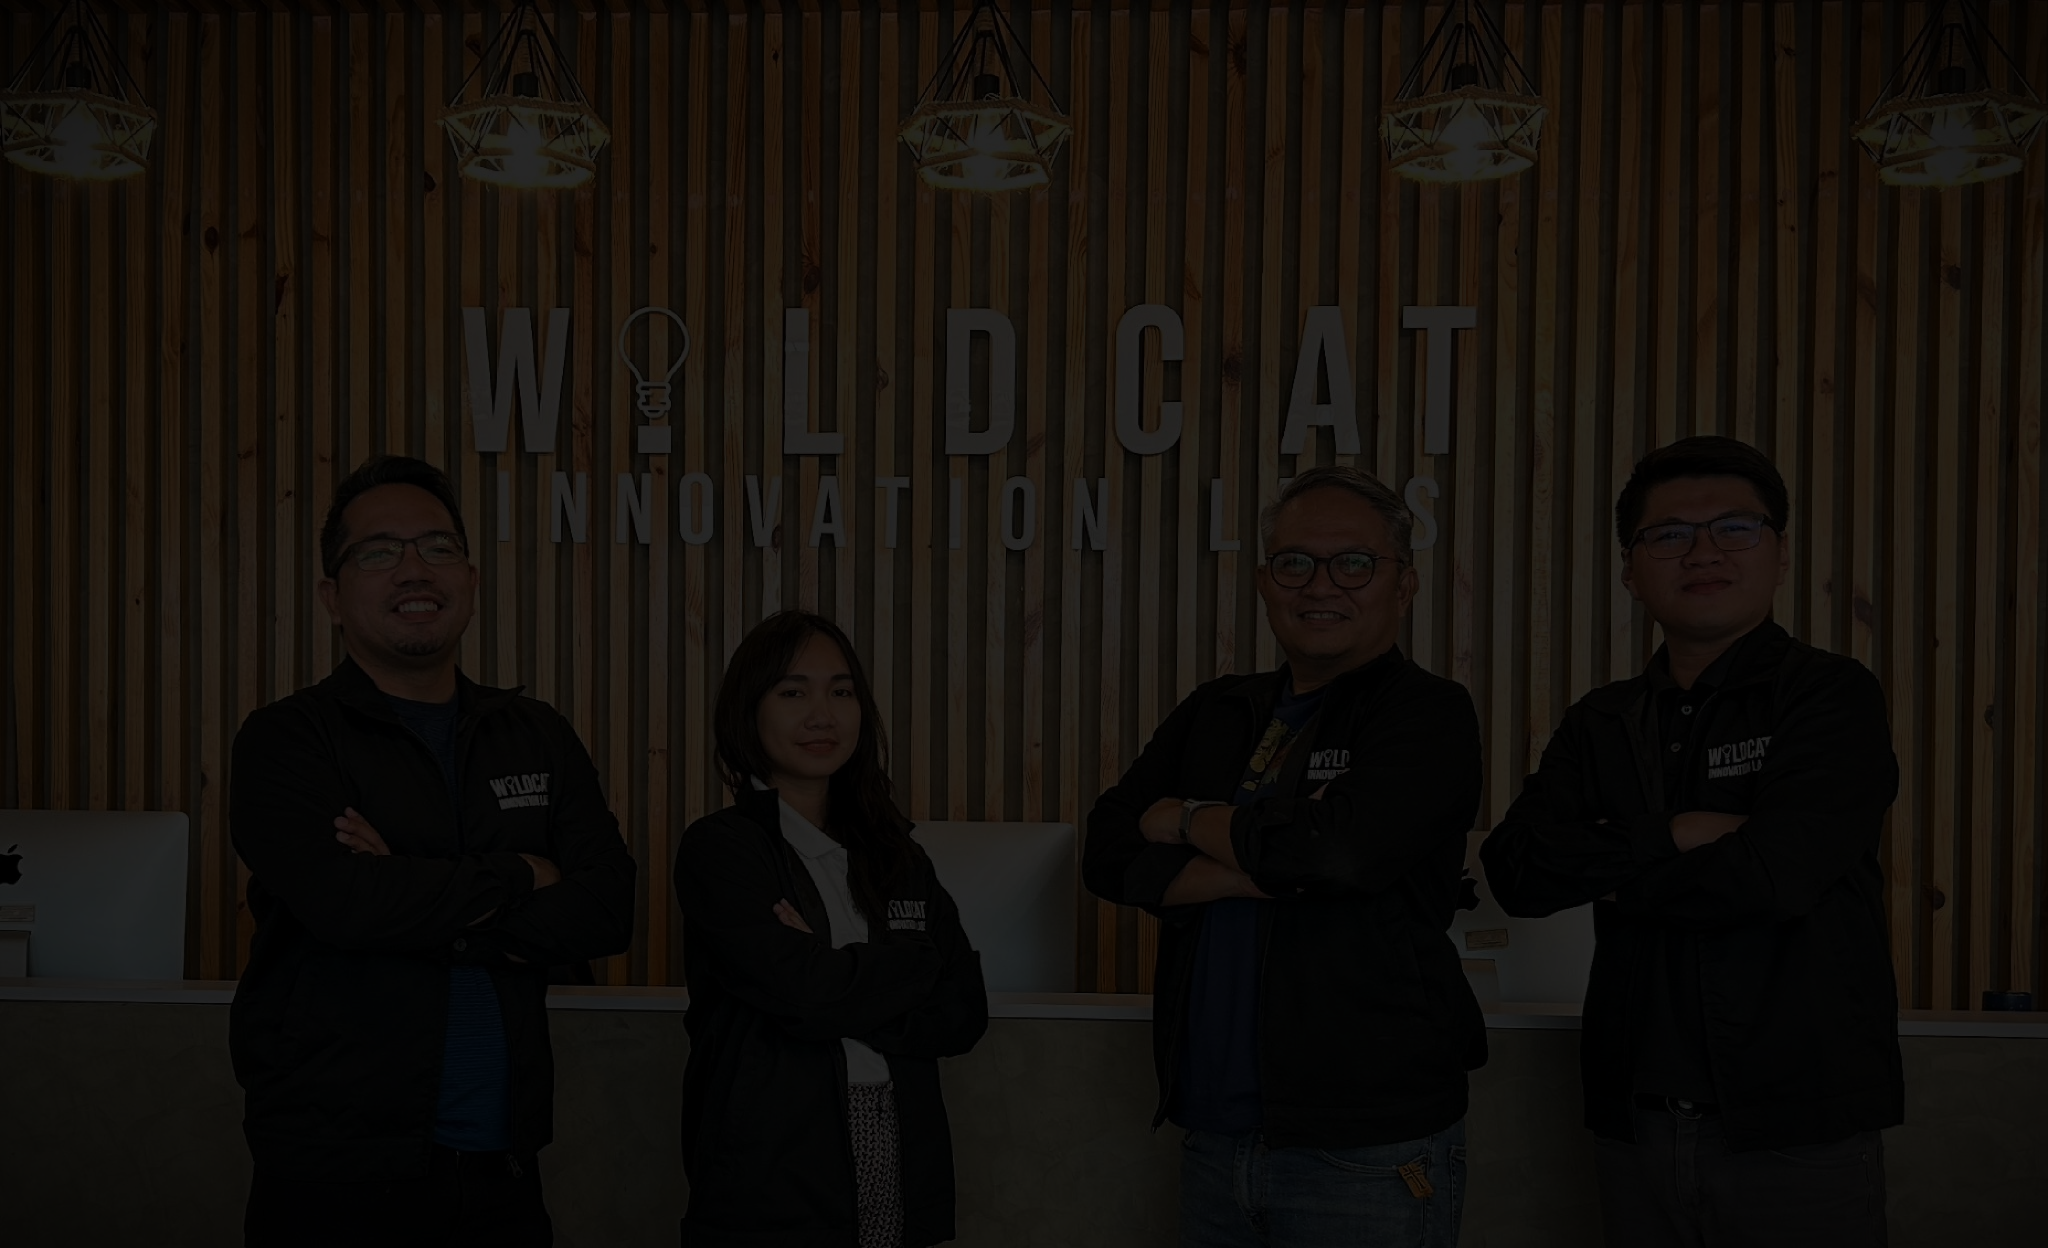
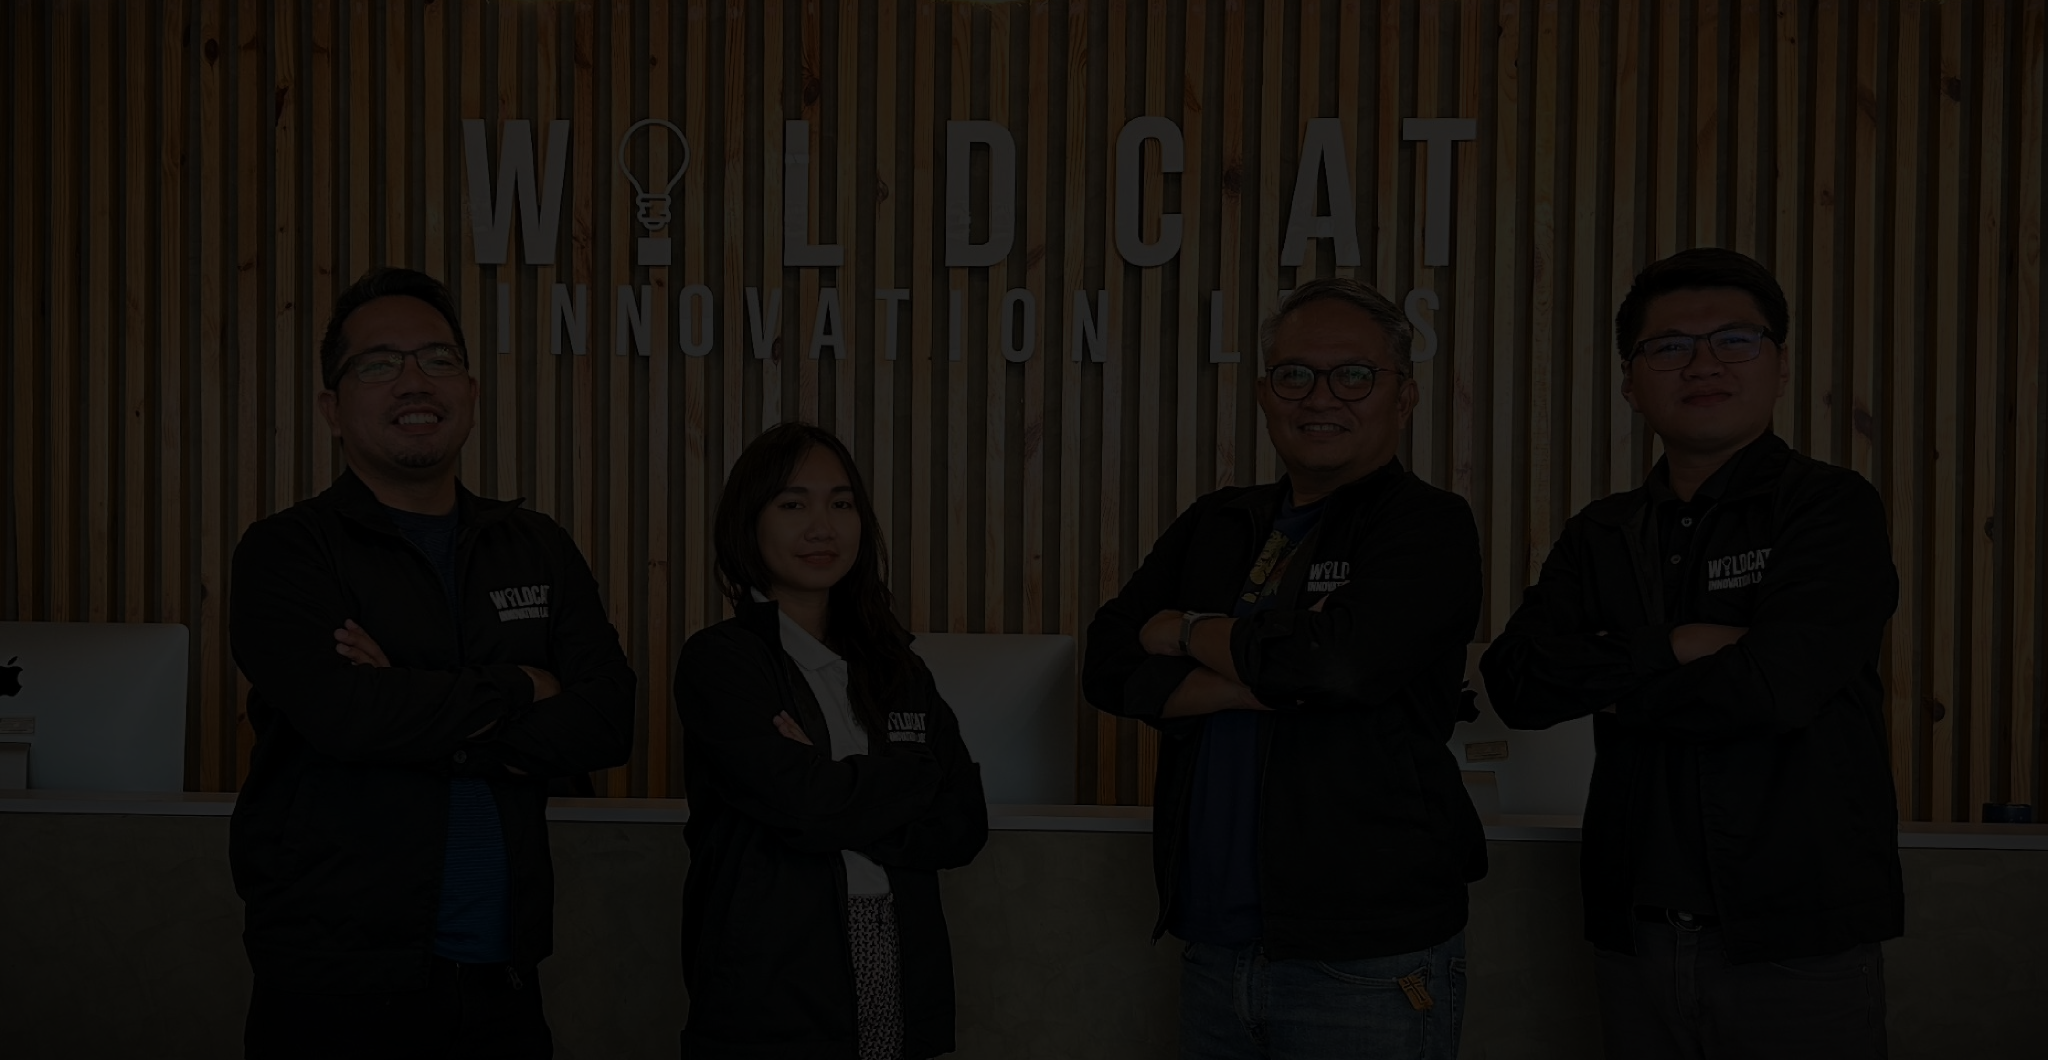
added tailwindcss classes

diff --git a/Capstone-1/src/main/resources/templates/initial.html b/Capstone-1/src/main/resources/templates/initial.html
@@ -11,37 +11,43 @@
     />
   </head>
   <body>
-    <div class="bg-green-500 h-screen">
-      <div
-        class="bg-blue-500 w-screen md:bg-center md:bg-cover md:bg-local absolute md:h-560 md:min-w-full"
-      >
-        <div class="flex justify-center md:flex md:justify-start">
+    <!-- <div class="bg-green-500 h-screen"> -->
+    <div>
+      <div>
+        <!-- class="border-2 border-yellow-300 h-screen w-screen md:bg-center md:bg-cover md:bg-local absolute md:h-560 md:min-w-full" -->
+        <div>
+          <img
+            src="/Capstone1/Capstone-1/src/main/resources/static/images/darkenlandingpageImg.png"
+            th:src="@{images/darkenlandingpageImg.png}"
+            class="h-full absolute bg-center bg-no-repeat w-full bg-cover mb-20 bg-local"
+          />
+          <div class="bg-green-600 h-44 z-10 absolute bottom-0 w-full"></div>
+        </div>
+        <div class="z-50 relative flex justify-center md:flex md:justify-start">
           <img
             class="pointer-events-none h-20 p-3 md:m-5 md:ml-20"
             src="/Capstone1/Capstone-1/src/main/resources/static/images/yellowLogo.png"
             th:src="@{/images/yellowLogo.png}"
           />
         </div>
-        <div class="text-center p-32 font-primary text-5xl">
+        <div class="z-10 relative text-center p-32 font-primary text-5xl">
           <span class="text-white">LOGIN</span>
           <span class="text-[#FDCC01]">AS</span>
         </div>
-        <!-- <div
-        class="bg-slate-600 text-lg justify-center flex flex-col flex-wrap md:flex-row text-center gap-10 font-secondary font-semibold text-50 text-black"
-      > -->
+
         <div
-          class="text-lg z-10 relative justify-center flex flex-wrap flex-row text-center md:gap-10 font-secondary font-semibold text-50 text-black"
+          class="bottom-24 border-2 border-yellow-300 text-lg z-10 absolute w-full justify-center flex flex-wrap flex-row text-center md:gap-10 font-secondary font-semibold text-50 text-black"
         >
           <a th:href="@{/login/applicant}" class="role-btn" name="applicant">
             <div
-              class="flex justify-center card md:rounded-radius-40 h-32 flex-col w-screen md:h-300 md:w-72 image-full items-center bg-[#EAEAEA] md:hover:bg-tanglow hover:shadow-xl duration-100 ease-in cursor-pointer border-b-10 border-transparent transform hover:border-black hover:border-b-10"
+              class="opacity-40 hover:opacity-100 flex justify-center card md:rounded-radius-40 h-32 flex-col w-screen md:h-150 md:w-52 image-full items-center bg-[#EAEAEA] md:hover:bg-tanglow hover:shadow-xl duration-100 ease-in cursor-pointer border-b-10 border-transparent transform hover:border-black hover:border-b-10"
             >
               <p>Applicant</p>
             </div>
           </a>
           <a th:href="@{/login/officer}" class="role-btn" name="officer">
             <div
-              class="flex justify-center card md:rounded-radius-40 h-32 flex-col w-screen md:h-300 md:w-72 image-full items-center bg-[#EAEAEA] md:hover:bg-tanglow hover:shadow-xl duration-100 ease-in cursor-pointer border-b-10 border-transparent transform hover:border-black hover:border-b-10"
+              class="flex justify-center card md:rounded-radius-40 h-32 flex-col w-screen md:h-150 md:w-52 image-full items-center bg-[#EAEAEA] md:hover:bg-tanglow hover:shadow-xl duration-100 ease-in cursor-pointer border-b-10 border-transparent transform hover:border-black hover:border-b-10"
             >
               <p>Officer</p>
             </div>
@@ -49,14 +55,14 @@
 
           <a th:href="@{/login/tbi-board}" class="role-btn" name="tbiboard">
             <div
-              class="flex justify-center card md:rounded-radius-40 h-32 flex-col w-screen md:h-300 md:w-72 image-full items-center bg-[#EAEAEA] md:hover:bg-tanglow hover:shadow-xl duration-100 ease-in cursor-pointer border-b-10 border-transparent transform hover:border-black hover:border-b-10"
+              class="flex justify-center card md:rounded-radius-40 h-32 flex-col w-screen md:h-150 md:w-52 image-full items-center bg-[#EAEAEA] md:hover:bg-tanglow hover:shadow-xl duration-100 ease-in cursor-pointer border-b-10 border-transparent transform hover:border-black hover:border-b-10"
             >
               <p>TBI Board</p>
             </div>
           </a>
           <a th:href="@{/login/manager}" class="role-btn" name="manager">
             <div
-              class="flex justify-center card md:rounded-radius-40 h-32 flex-col w-screen md:h-300 md:w-72 image-full items-center bg-[#EAEAEA] md:hover:bg-tanglow hover:shadow-xl duration-100 ease-in cursor-pointer border-b-10 border-transparent transform hover:border-black hover:border-b-10"
+              class="flex justify-center card md:rounded-radius-40 h-32 flex-col w-screen md:h-150 md:w-52 image-full items-center bg-[#EAEAEA] md:hover:bg-tanglow hover:shadow-xl duration-100 ease-in cursor-pointer border-b-10 border-transparent transform hover:border-black hover:border-b-10"
             >
               <p>Manager</p>
             </div>

diff --git a/Capstone-1/src/main/resources/static/css/output.css b/Capstone-1/src/main/resources/static/css/output.css
@@ -582,6 +582,42 @@ video {
   right: 0px;
 }
 
+.bottom-5{
+  bottom: 1.25rem;
+}
+
+.bottom-2{
+  bottom: 0.5rem;
+}
+
+.bottom-1{
+  bottom: 0.25rem;
+}
+
+.bottom-10{
+  bottom: 2.5rem;
+}
+
+.bottom-20{
+  bottom: 5rem;
+}
+
+.bottom-60{
+  bottom: 15rem;
+}
+
+.bottom-32{
+  bottom: 8rem;
+}
+
+.bottom-28{
+  bottom: 7rem;
+}
+
+.bottom-24{
+  bottom: 6rem;
+}
+
 .z-10{
   z-index: 10;
 }
@@ -593,6 +629,10 @@ video {
 .my-10{
   margin-top: 2.5rem;
   margin-bottom: 2.5rem;
+}
+
+.mb-20{
+  margin-bottom: 5rem;
 }
 
 .mb-4{
@@ -675,6 +715,10 @@ video {
   display: none;
 }
 
+.h-1\/5{
+  height: 20%;
+}
+
 .h-12{
   height: 3rem;
 }
@@ -693,6 +737,26 @@ video {
 
 .h-screen{
   height: 100vh;
+}
+
+.h-full{
+  height: 100%;
+}
+
+.h-1\/4{
+  height: 25%;
+}
+
+.h-80{
+  height: 20rem;
+}
+
+.h-40{
+  height: 10rem;
+}
+
+.h-44{
+  height: 11rem;
 }
 
 .w-1\/4{
@@ -763,10 +827,6 @@ video {
   justify-content: space-between;
 }
 
-.gap-10{
-  gap: 2.5rem;
-}
-
 .overflow-x-auto{
   overflow-x: auto;
 }
@@ -823,6 +883,11 @@ video {
   border-color: transparent;
 }
 
+.border-yellow-300{
+  --tw-border-opacity: 1;
+  border-color: rgb(253 224 71 / var(--tw-border-opacity));
+}
+
 .border-opacity-100{
   --tw-border-opacity: 1;
 }
@@ -830,11 +895,6 @@ video {
 .bg-\[\#EAEAEA\]{
   --tw-bg-opacity: 1;
   background-color: rgb(234 234 234 / var(--tw-bg-opacity));
-}
-
-.bg-blue-500{
-  --tw-bg-opacity: 1;
-  background-color: rgb(59 130 246 / var(--tw-bg-opacity));
 }
 
 .bg-blue-700{
@@ -845,6 +905,11 @@ video {
 .bg-green-500{
   --tw-bg-opacity: 1;
   background-color: rgb(34 197 94 / var(--tw-bg-opacity));
+}
+
+.bg-green-600{
+  --tw-bg-opacity: 1;
+  background-color: rgb(22 163 74 / var(--tw-bg-opacity));
 }
 
 .bg-rose-200{
@@ -860,11 +925,6 @@ video {
 .bg-rose-700{
   --tw-bg-opacity: 1;
   background-color: rgb(190 18 60 / var(--tw-bg-opacity));
-}
-
-.bg-slate-600{
-  --tw-bg-opacity: 1;
-  background-color: rgb(71 85 105 / var(--tw-bg-opacity));
 }
 
 .bg-tanglow{
@@ -893,6 +953,22 @@ video {
 
 .to-formbg-light{
   --tw-gradient-to: #E9D790 var(--tw-gradient-to-position);
+}
+
+.bg-cover{
+  background-size: cover;
+}
+
+.bg-local{
+  background-attachment: local;
+}
+
+.bg-center{
+  background-position: center;
+}
+
+.bg-no-repeat{
+  background-repeat: no-repeat;
 }
 
 .p-20{
@@ -983,6 +1059,10 @@ video {
   color: rgb(255 255 255 / var(--tw-text-opacity));
 }
 
+.opacity-40{
+  opacity: 0.4;
+}
+
 .duration-100{
   transition-duration: 100ms;
 }
@@ -1013,6 +1093,10 @@ video {
 .hover\:text-yellow-400:hover{
   --tw-text-opacity: 1;
   color: rgb(250 204 21 / var(--tw-text-opacity));
+}
+
+.hover\:opacity-100:hover{
+  opacity: 1;
 }
 
 .hover\:shadow-xl:hover{
@@ -1047,8 +1131,8 @@ video {
     display: flex;
   }
 
-  .md\:h-300{
-    height: 230px;
+  .md\:h-150{
+    height: 170px;
   }
 
   .md\:h-560{
@@ -1067,12 +1151,12 @@ video {
     width: 75%;
   }
 
-  .md\:min-w-full{
-    min-width: 100%;
+  .md\:w-52{
+    width: 13rem;
   }
 
-  .md\:flex-row{
-    flex-direction: row;
+  .md\:min-w-full{
+    min-width: 100%;
   }
 
   .md\:flex-row-reverse{

diff --git a/Capstone-1/tailwind.config.js b/Capstone-1/tailwind.config.js
@@ -15,6 +15,8 @@ module.exports = {
         1080: "1080px",
         722: "722px",
         110: "110px",
+        200: "200px",
+        150: "170px",
       },
       padding: {
         5: "0.345rem",
